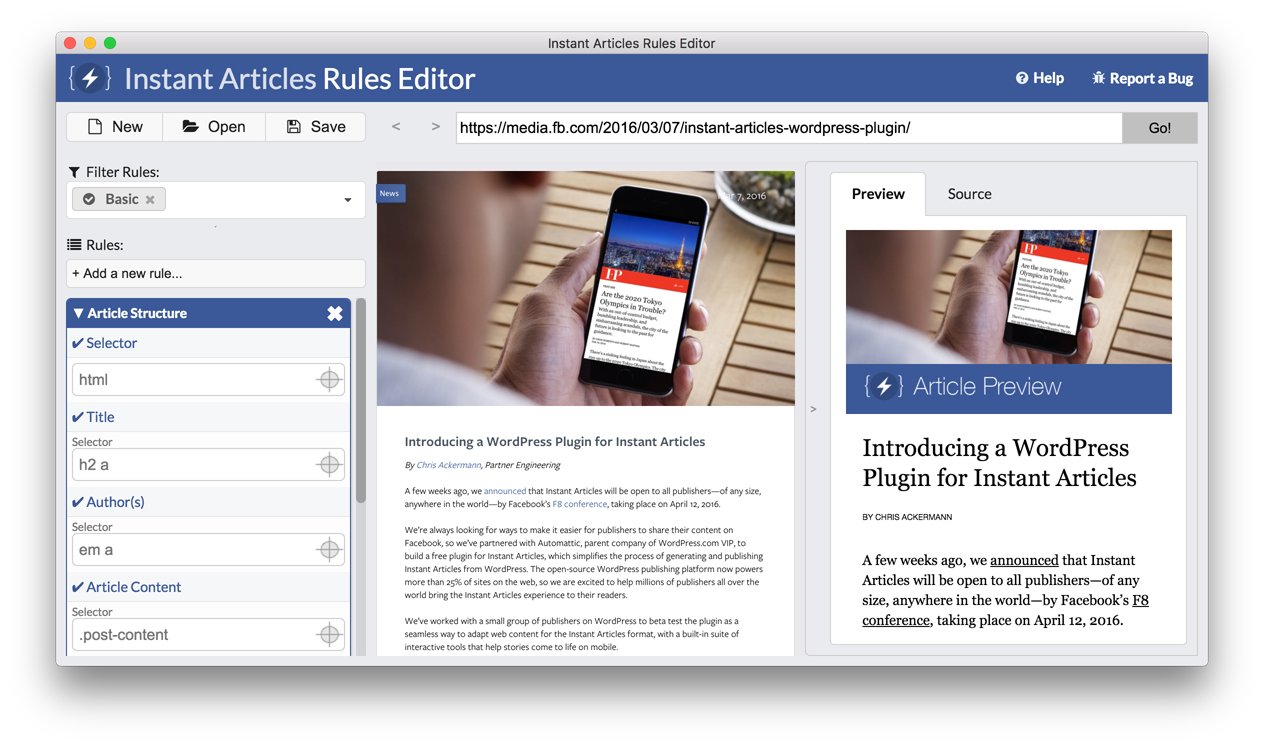
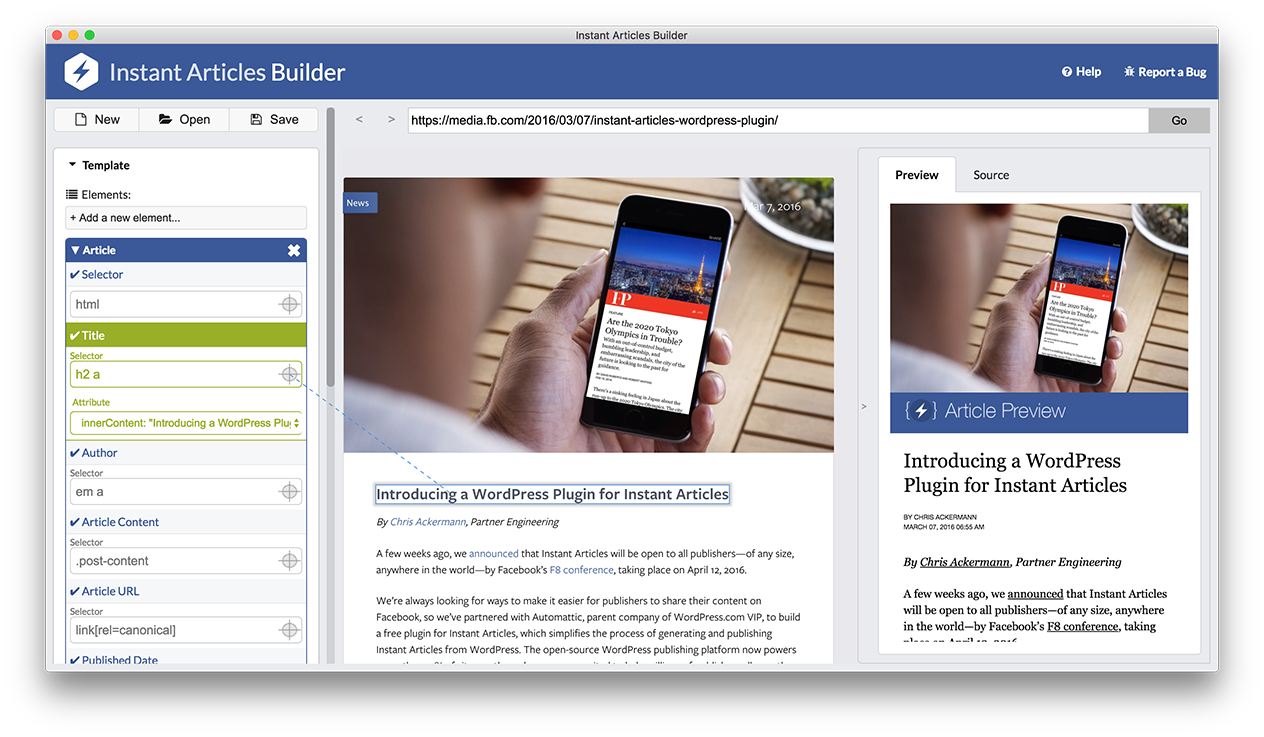
Deploy website
Deploy website version based on 8b2918e29c736e7292b97bfbfb230af4efd1ce28

diff --git a/docs/get-started.html b/docs/get-started.html
@@ -1,19 +1,19 @@
-<html lang="en"><head><meta charset="utf-8"/><meta http-equiv="X-UA-Compatible" content="IE=edge"/><title>Getting Started · Instant Articles Rules Editor</title><meta name="viewport" content="width=device-width"/><meta name="generator" content="Docusaurus"/><meta property="og:title" content="Getting Started · Instant Articles Rules Editor"/><meta property="og:type" content="website"/><meta property="og:url" content="https://facebook.github.io/instant-articles-builder/index.html"/><meta property="og:description" content="**Rules Editor** helps you to create rules that convert your articles to [Facebok Instant Articles](https://instantarticles.fb.com/)."/><link rel="shortcut icon" href="/instant-articles-builder/img/favicon.png"/><link rel="stylesheet" href="//cdnjs.cloudflare.com/ajax/libs/highlight.js/9.12.0/styles/default.min.css"/><script type="text/javascript" src="https://buttons.github.io/buttons.js"></script><link rel="stylesheet" href="/instant-articles-builder/css/main.css"/></head><body class="sideNavVisible doc"><div class="fixedHeaderContainer"><div class="headerWrapper wrapper"><header><a href="/instant-articles-builder/"><img class="logo" src="/instant-articles-builder/img/logo.png" alt="Instant Articles Rules Editor"/><h2 class="headerTitle">Instant Articles Rules Editor</h2></a><div class="navigationWrapper navigationSlider"><nav class="slidingNav"><ul class="nav-site nav-site-internal"><li class="siteNavGroupActive siteNavItemActive"><a href="/instant-articles-builder/docs/get-started.html" target="_self">Get Started</a></li></ul></nav></div></header></div></div><div class="navPusher"><div class="docMainWrapper wrapper"><div class="container docsNavContainer" id="docsNav"><nav class="toc"><div class="toggleNav"><section class="navWrapper wrapper"><div class="navBreadcrumb wrapper"><div class="navToggle" id="navToggler"><i></i></div><h2><i>›</i><span>Usage</span></h2></div><div class="navGroups"><div class="navGroup navGroupActive"><h3>Usage</h3><ul><li class="navListItem navListItemActive"><a class="navItem navItemActive" href="/instant-articles-builder/docs/get-started.html">Getting Started</a></li></ul></div></div></section></div><script>
+<html lang="en"><head><meta charset="utf-8"/><meta http-equiv="X-UA-Compatible" content="IE=edge"/><title>Getting Started · Instant Articles Builder</title><meta name="viewport" content="width=device-width"/><meta name="generator" content="Docusaurus"/><meta property="og:title" content="Getting Started · Instant Articles Builder"/><meta property="og:type" content="website"/><meta property="og:url" content="https://facebook.github.io/instant-articles-builder/index.html"/><meta property="og:description" content="With the Instant Articles Builder, you are able to specify the template for your [Instant Articles](https://instantarticles.fb.com/) simply by pointing and clicking on the visual elements of your mobile web articles. This template is used to map the content in your mobile web articles to Instant Articles, which will then be rendered to your readers within Facebook&#x27;s mobile apps."/><link rel="shortcut icon" href="/instant-articles-builder/img/favicon.png"/><link rel="stylesheet" href="//cdnjs.cloudflare.com/ajax/libs/highlight.js/9.12.0/styles/default.min.css"/><script type="text/javascript" src="https://buttons.github.io/buttons.js"></script><link rel="stylesheet" href="/instant-articles-builder/css/main.css"/></head><body class="sideNavVisible doc"><div class="fixedHeaderContainer"><div class="headerWrapper wrapper"><header><a href="/instant-articles-builder/"><img class="logo" src="/instant-articles-builder/img/logo.png" alt="Instant Articles Builder"/><h2 class="headerTitle">Instant Articles Builder</h2></a><div class="navigationWrapper navigationSlider"><nav class="slidingNav"><ul class="nav-site nav-site-internal"><li class="siteNavGroupActive siteNavItemActive"><a href="/instant-articles-builder/docs/get-started.html" target="_self">Get Started</a></li></ul></nav></div></header></div></div><div class="navPusher"><div class="docMainWrapper wrapper"><div class="container docsNavContainer" id="docsNav"><nav class="toc"><div class="toggleNav"><section class="navWrapper wrapper"><div class="navBreadcrumb wrapper"><div class="navToggle" id="navToggler"><i></i></div><h2><i>›</i><span>Usage</span></h2></div><div class="navGroups"><div class="navGroup navGroupActive"><h3>Usage</h3><ul><li class="navListItem navListItemActive"><a class="navItem navItemActive" href="/instant-articles-builder/docs/get-started.html">Getting Started</a></li></ul></div></div></section></div><script>
           var toggler = document.getElementById('navToggler');
           var nav = document.getElementById('docsNav');
           toggler.onclick = function() {
             nav.classList.toggle('docsSliderActive');
           };
-        </script></nav></div><div class="container mainContainer"><div class="wrapper"><div class="post"><header class="postHeader"><h1>Getting Started</h1></header><article><div><span><p><strong>Rules Editor</strong> helps you to create rules that convert your articles to <a href="https://instantarticles.fb.com/">Facebok Instant Articles</a>.</p>
+        </script></nav></div><div class="container mainContainer"><div class="wrapper"><div class="post"><header class="postHeader"><h1>Getting Started</h1></header><article><div><span><p>With the Instant Articles Builder, you are able to specify the template for your <a href="https://instantarticles.fb.com/">Instant Articles</a> simply by pointing and clicking on the visual elements of your mobile web articles. This template is used to map the content in your mobile web articles to Instant Articles, which will then be rendered to your readers within Facebook's mobile apps.</p>
 <p>For using this tool you'll need:</p>
 <ul>
 <li>A website containing articles.</li>
 <li>A Facebook Page enabled to use Instant Articles and connected to your website.</li>
 </ul>
-<p>The <abbr title="JavaScript Object Notation">JSON</abbr> file produced by this tool should be uploaded to a public URL and referenced by a meta tag inside the <code>&lt;head&gt;</code> tag of your articles:</p>
+<p>The file produced by this tool should be uploaded to a public URL and referenced by a meta tag inside the <code>&lt;head&gt;</code> tag of your articles:</p>
 <p><code>&lt;meta property=&quot;ia:rules_url&quot; content=&quot;path/to/your/rules-file.json&quot;/&gt;</code></p>
-<p><a href="https://developers.facebook.com/docs/instant-articles/rules-editor">Read the full documentation to learn more.</a></p>
-</span></div></article></div><div class="docs-prevnext"></div></div></div></div><footer class="nav-footer" id="footer"><section class="sitemap"><a href="/instant-articles-builder/" class="nav-home"><img src="/instant-articles-builder/img/logo.png" alt="Instant Articles Rules Editor" width="66" height="58"/></a><div><h5>Docs</h5><a href="/instant-articles-builder/docs/en/get-started.html">Getting Started</a><a href="https://developers.facebook.com/docs/instant-articles/rules-editor">Full Documentation</a></div><div><h5>Related</h5><a href="https://instantarticles.fb.com">Instant Articles</a></div><div><h5>More</h5><a href="https://github.com/facebook/facebook-instant-articles-rules-editor">GitHub Repository</a><a href="https://github.com/facebook/facebook-instant-articles-rules-editor/blob/master/LICENSE">License</a></div></section><a href="https://code.facebook.com/projects/" target="_blank" class="fbOpenSource"><img src="/instant-articles-builder/img/oss_logo.png" alt="Facebook Open Source" width="170" height="45"/></a><section class="copyright">Copyright © 2018 Facebook Inc.</section></footer></div><script>
+<p><a href="https://developers.facebook.com/docs/instant-articles/builder">Read the full documentation to learn more.</a></p>
+</span></div></article></div><div class="docs-prevnext"></div></div></div></div><footer class="nav-footer" id="footer"><section class="sitemap"><a href="/instant-articles-builder/" class="nav-home"><img src="/instant-articles-builder/img/logo.png" alt="Instant Articles Builder" width="66" height="58"/></a><div><h5>Docs</h5><a href="/instant-articles-builder/docs/en/get-started.html">Getting Started</a><a href="https://developers.facebook.com/docs/instant-articles/rules-editor">Full Documentation</a></div><div><h5>Related</h5><a href="https://instantarticles.fb.com">Instant Articles</a></div><div><h5>More</h5><a href="https://github.com/facebook/instant-articles-builder">GitHub Repository</a><a href="https://github.com/facebook/instant-articles-builder/blob/master/LICENSE">License</a></div></section><a href="https://code.facebook.com/projects/" target="_blank" class="fbOpenSource"><img src="/instant-articles-builder/img/oss_logo.png" alt="Facebook Open Source" width="170" height="45"/></a><section class="copyright">Copyright © 2018 Facebook Inc.</section></footer></div><script>
               !function(f,b,e,v,n,t,s)
               {if(f.fbq)return;n=f.fbq=function(){n.callMethod?
               n.callMethod.apply(n,arguments):n.queue.push(arguments)};

diff --git a/en/index.html b/en/index.html
@@ -1,10 +1,10 @@
-<html lang="en"><head><meta charset="utf-8"/><meta http-equiv="X-UA-Compatible" content="IE=edge"/><title>Instant Articles Rules Editor · Set-up Instant Articles without coding</title><meta name="viewport" content="width=device-width"/><meta name="generator" content="Docusaurus"/><meta property="og:title" content="Instant Articles Rules Editor · Set-up Instant Articles without coding"/><meta property="og:type" content="website"/><meta property="og:url" content="https://facebook.github.io/instant-articles-builder/index.html"/><meta property="og:description" content="Set-up Instant Articles without coding"/><link rel="shortcut icon" href="/instant-articles-builder/img/favicon.png"/><link rel="stylesheet" href="//cdnjs.cloudflare.com/ajax/libs/highlight.js/9.12.0/styles/default.min.css"/><script type="text/javascript" src="https://buttons.github.io/buttons.js"></script><link rel="stylesheet" href="/instant-articles-builder/css/main.css"/></head><body class=""><div class="fixedHeaderContainer"><div class="headerWrapper wrapper"><header><a href="/instant-articles-builder/"><img class="logo" src="/instant-articles-builder/img/logo.png" alt="Instant Articles Rules Editor"/><h2 class="headerTitle">Instant Articles Rules Editor</h2></a><div class="navigationWrapper navigationSlider"><nav class="slidingNav"><ul class="nav-site nav-site-internal"><li class=""><a href="/instant-articles-builder/docs/get-started.html" target="_self">Get Started</a></li></ul></nav></div></header></div></div><div class="navPusher"><div><div class="homeContainer"><div class="homeSplashFade"><div class="wrapper homeWrapper"><div class="inner"><img width="632" height="373" src="/instant-articles-builder/img/print-overall.png"/><h2 class="projectTitle">Rules Editor<small>Set-up <a target="_blank" href="http://instantarticles.fb.com">Facebook Instant Articles</a> without coding</small></h2><div class="section promoSection"><div class="promoRow"><div class="pluginRowBlock"><div class="pluginWrapper buttonWrapper"><a class="button" href="http://github.com/facebook/facebook-instant-articles-rules-editor/releases/latest" target="_self">Download</a></div><div class="pluginWrapper buttonWrapper"><a class="button" href="/instant-articles-builder/docs/en/get-started.html" target="_self">Get Started</a></div></div></div></div></div></div></div></div><div class="mainContainer"><div class="container paddingBottom paddingTop"><div class="wrapper"><div class="gridBlock"><div class="blockElement alignCenter fourByGridBlock imageAlignTop"><div class="blockImage"><img src="/instant-articles-builder/img/print-point-and-click.png"/></div><div class="blockContent"><h2><div><span><p>Point &amp; Click</p>
-</span></div></h2><div><span><p>Visually select elements from your site</p>
+<html lang="en"><head><meta charset="utf-8"/><meta http-equiv="X-UA-Compatible" content="IE=edge"/><title>Instant Articles Builder · Set-up Instant Articles without coding</title><meta name="viewport" content="width=device-width"/><meta name="generator" content="Docusaurus"/><meta property="og:title" content="Instant Articles Builder · Set-up Instant Articles without coding"/><meta property="og:type" content="website"/><meta property="og:url" content="https://facebook.github.io/instant-articles-builder/index.html"/><meta property="og:description" content="Set-up Instant Articles without coding"/><link rel="shortcut icon" href="/instant-articles-builder/img/favicon.png"/><link rel="stylesheet" href="//cdnjs.cloudflare.com/ajax/libs/highlight.js/9.12.0/styles/default.min.css"/><script type="text/javascript" src="https://buttons.github.io/buttons.js"></script><link rel="stylesheet" href="/instant-articles-builder/css/main.css"/></head><body class=""><div class="fixedHeaderContainer"><div class="headerWrapper wrapper"><header><a href="/instant-articles-builder/"><img class="logo" src="/instant-articles-builder/img/logo.png" alt="Instant Articles Builder"/><h2 class="headerTitle">Instant Articles Builder</h2></a><div class="navigationWrapper navigationSlider"><nav class="slidingNav"><ul class="nav-site nav-site-internal"><li class=""><a href="/instant-articles-builder/docs/get-started.html" target="_self">Get Started</a></li></ul></nav></div></header></div></div><div class="navPusher"><div><div class="homeContainer"><div class="homeSplashFade"><div class="wrapper homeWrapper"><div class="inner"><img width="632" height="373" src="/instant-articles-builder/img/print-overall.png"/><h2 class="projectTitle">Instant Articles Builder<small>Set-up <a target="_blank" href="http://instantarticles.fb.com">Facebook Instant Articles</a> without coding</small></h2><div class="section promoSection"><div class="promoRow"><div class="pluginRowBlock"><div class="pluginWrapper buttonWrapper"><a class="button" href="http://github.com/facebook/instant-articles-builder/releases/latest" target="_self">Download</a></div><div class="pluginWrapper buttonWrapper"><a class="button" href="/instant-articles-builder/docs/en/get-started.html" target="_self">Get Started</a></div></div></div></div></div></div></div></div><div class="mainContainer"><div class="container paddingBottom paddingTop"><div class="wrapper"><div class="gridBlock"><div class="blockElement alignCenter fourByGridBlock imageAlignTop"><div class="blockImage"><img src="/instant-articles-builder/img/print-point-and-click.png"/></div><div class="blockContent"><h2><div><span><p>Point &amp; Click</p>
+</span></div></h2><div><span><p>Visually select elements from your website</p>
 </span></div></div></div><div class="blockElement alignCenter fourByGridBlock imageAlignTop"><div class="blockImage"><img src="/instant-articles-builder/img/print-preview.png"/></div><div class="blockContent"><h2><div><span><p>Preview</p>
 </span></div></h2><div><span><p>Preview the result as you go</p>
 </span></div></div></div><div class="blockElement alignCenter fourByGridBlock imageAlignTop"><div class="blockImage"><img src="/instant-articles-builder/img/print-css.png"/></div><div class="blockContent"><h2><div><span><p>Refine</p>
-</span></div></h2><div><span><p>Refine your configuration with CSS3 selectors</p>
-</span></div></div></div></div></div></div></div></div><footer class="nav-footer" id="footer"><section class="sitemap"><a href="/instant-articles-builder/" class="nav-home"><img src="/instant-articles-builder/img/logo.png" alt="Instant Articles Rules Editor" width="66" height="58"/></a><div><h5>Docs</h5><a href="/instant-articles-builder/docs/en/get-started.html">Getting Started</a><a href="https://developers.facebook.com/docs/instant-articles/rules-editor">Full Documentation</a></div><div><h5>Related</h5><a href="https://instantarticles.fb.com">Instant Articles</a></div><div><h5>More</h5><a href="https://github.com/facebook/facebook-instant-articles-rules-editor">GitHub Repository</a><a href="https://github.com/facebook/facebook-instant-articles-rules-editor/blob/master/LICENSE">License</a></div></section><a href="https://code.facebook.com/projects/" target="_blank" class="fbOpenSource"><img src="/instant-articles-builder/img/oss_logo.png" alt="Facebook Open Source" width="170" height="45"/></a><section class="copyright">Copyright © 2018 Facebook Inc.</section></footer></div><script>
+</span></div></h2><div><span><p>Refine your configuration with CSS selectors</p>
+</span></div></div></div></div></div></div></div></div><footer class="nav-footer" id="footer"><section class="sitemap"><a href="/instant-articles-builder/" class="nav-home"><img src="/instant-articles-builder/img/logo.png" alt="Instant Articles Builder" width="66" height="58"/></a><div><h5>Docs</h5><a href="/instant-articles-builder/docs/en/get-started.html">Getting Started</a><a href="https://developers.facebook.com/docs/instant-articles/rules-editor">Full Documentation</a></div><div><h5>Related</h5><a href="https://instantarticles.fb.com">Instant Articles</a></div><div><h5>More</h5><a href="https://github.com/facebook/instant-articles-builder">GitHub Repository</a><a href="https://github.com/facebook/instant-articles-builder/blob/master/LICENSE">License</a></div></section><a href="https://code.facebook.com/projects/" target="_blank" class="fbOpenSource"><img src="/instant-articles-builder/img/oss_logo.png" alt="Facebook Open Source" width="170" height="45"/></a><section class="copyright">Copyright © 2018 Facebook Inc.</section></footer></div><script>
               !function(f,b,e,v,n,t,s)
               {if(f.fbq)return;n=f.fbq=function(){n.callMethod?
               n.callMethod.apply(n,arguments):n.queue.push(arguments)};

diff --git a/index.html b/index.html
@@ -1,10 +1,10 @@
-<html><head><meta charset="utf-8"/><meta http-equiv="X-UA-Compatible" content="IE=edge"/><title>Instant Articles Rules Editor · Set-up Instant Articles without coding</title><meta name="viewport" content="width=device-width"/><meta name="generator" content="Docusaurus"/><meta property="og:title" content="Instant Articles Rules Editor · Set-up Instant Articles without coding"/><meta property="og:type" content="website"/><meta property="og:url" content="https://facebook.github.io/instant-articles-builder/index.html"/><meta property="og:description" content="Set-up Instant Articles without coding"/><link rel="shortcut icon" href="/instant-articles-builder/img/favicon.png"/><link rel="stylesheet" href="//cdnjs.cloudflare.com/ajax/libs/highlight.js/9.12.0/styles/default.min.css"/><script type="text/javascript" src="https://buttons.github.io/buttons.js"></script><link rel="stylesheet" href="/instant-articles-builder/css/main.css"/></head><body class=""><div class="fixedHeaderContainer"><div class="headerWrapper wrapper"><header><a href="/instant-articles-builder/"><img class="logo" src="/instant-articles-builder/img/logo.png" alt="Instant Articles Rules Editor"/><h2 class="headerTitle">Instant Articles Rules Editor</h2></a><div class="navigationWrapper navigationSlider"><nav class="slidingNav"><ul class="nav-site nav-site-internal"><li class=""><a href="/instant-articles-builder/docs/get-started.html" target="_self">Get Started</a></li></ul></nav></div></header></div></div><div class="navPusher"><div><div class="homeContainer"><div class="homeSplashFade"><div class="wrapper homeWrapper"><div class="inner"><img width="632" height="373" src="/instant-articles-builder/img/print-overall.png"/><h2 class="projectTitle">Rules Editor<small>Set-up <a target="_blank" href="http://instantarticles.fb.com">Facebook Instant Articles</a> without coding</small></h2><div class="section promoSection"><div class="promoRow"><div class="pluginRowBlock"><div class="pluginWrapper buttonWrapper"><a class="button" href="http://github.com/facebook/facebook-instant-articles-rules-editor/releases/latest" target="_self">Download</a></div><div class="pluginWrapper buttonWrapper"><a class="button" href="/instant-articles-builder/docs/get-started.html" target="_self">Get Started</a></div></div></div></div></div></div></div></div><div class="mainContainer"><div class="container paddingBottom paddingTop"><div class="wrapper"><div class="gridBlock"><div class="blockElement alignCenter fourByGridBlock imageAlignTop"><div class="blockImage"><img src="/instant-articles-builder/img/print-point-and-click.png"/></div><div class="blockContent"><h2><div><span><p>Point &amp; Click</p>
-</span></div></h2><div><span><p>Visually select elements from your site</p>
+<html><head><meta charset="utf-8"/><meta http-equiv="X-UA-Compatible" content="IE=edge"/><title>Instant Articles Builder · Set-up Instant Articles without coding</title><meta name="viewport" content="width=device-width"/><meta name="generator" content="Docusaurus"/><meta property="og:title" content="Instant Articles Builder · Set-up Instant Articles without coding"/><meta property="og:type" content="website"/><meta property="og:url" content="https://facebook.github.io/instant-articles-builder/index.html"/><meta property="og:description" content="Set-up Instant Articles without coding"/><link rel="shortcut icon" href="/instant-articles-builder/img/favicon.png"/><link rel="stylesheet" href="//cdnjs.cloudflare.com/ajax/libs/highlight.js/9.12.0/styles/default.min.css"/><script type="text/javascript" src="https://buttons.github.io/buttons.js"></script><link rel="stylesheet" href="/instant-articles-builder/css/main.css"/></head><body class=""><div class="fixedHeaderContainer"><div class="headerWrapper wrapper"><header><a href="/instant-articles-builder/"><img class="logo" src="/instant-articles-builder/img/logo.png" alt="Instant Articles Builder"/><h2 class="headerTitle">Instant Articles Builder</h2></a><div class="navigationWrapper navigationSlider"><nav class="slidingNav"><ul class="nav-site nav-site-internal"><li class=""><a href="/instant-articles-builder/docs/get-started.html" target="_self">Get Started</a></li></ul></nav></div></header></div></div><div class="navPusher"><div><div class="homeContainer"><div class="homeSplashFade"><div class="wrapper homeWrapper"><div class="inner"><img width="632" height="373" src="/instant-articles-builder/img/print-overall.png"/><h2 class="projectTitle">Instant Articles Builder<small>Set-up <a target="_blank" href="http://instantarticles.fb.com">Facebook Instant Articles</a> without coding</small></h2><div class="section promoSection"><div class="promoRow"><div class="pluginRowBlock"><div class="pluginWrapper buttonWrapper"><a class="button" href="http://github.com/facebook/instant-articles-builder/releases/latest" target="_self">Download</a></div><div class="pluginWrapper buttonWrapper"><a class="button" href="/instant-articles-builder/docs/get-started.html" target="_self">Get Started</a></div></div></div></div></div></div></div></div><div class="mainContainer"><div class="container paddingBottom paddingTop"><div class="wrapper"><div class="gridBlock"><div class="blockElement alignCenter fourByGridBlock imageAlignTop"><div class="blockImage"><img src="/instant-articles-builder/img/print-point-and-click.png"/></div><div class="blockContent"><h2><div><span><p>Point &amp; Click</p>
+</span></div></h2><div><span><p>Visually select elements from your website</p>
 </span></div></div></div><div class="blockElement alignCenter fourByGridBlock imageAlignTop"><div class="blockImage"><img src="/instant-articles-builder/img/print-preview.png"/></div><div class="blockContent"><h2><div><span><p>Preview</p>
 </span></div></h2><div><span><p>Preview the result as you go</p>
 </span></div></div></div><div class="blockElement alignCenter fourByGridBlock imageAlignTop"><div class="blockImage"><img src="/instant-articles-builder/img/print-css.png"/></div><div class="blockContent"><h2><div><span><p>Refine</p>
-</span></div></h2><div><span><p>Refine your configuration with CSS3 selectors</p>
-</span></div></div></div></div></div></div></div></div><footer class="nav-footer" id="footer"><section class="sitemap"><a href="/instant-articles-builder/" class="nav-home"><img src="/instant-articles-builder/img/logo.png" alt="Instant Articles Rules Editor" width="66" height="58"/></a><div><h5>Docs</h5><a href="/instant-articles-builder/docs/get-started.html">Getting Started</a><a href="https://developers.facebook.com/docs/instant-articles/rules-editor">Full Documentation</a></div><div><h5>Related</h5><a href="https://instantarticles.fb.com">Instant Articles</a></div><div><h5>More</h5><a href="https://github.com/facebook/facebook-instant-articles-rules-editor">GitHub Repository</a><a href="https://github.com/facebook/facebook-instant-articles-rules-editor/blob/master/LICENSE">License</a></div></section><a href="https://code.facebook.com/projects/" target="_blank" class="fbOpenSource"><img src="/instant-articles-builder/img/oss_logo.png" alt="Facebook Open Source" width="170" height="45"/></a><section class="copyright">Copyright © 2018 Facebook Inc.</section></footer></div><script>
+</span></div></h2><div><span><p>Refine your configuration with CSS selectors</p>
+</span></div></div></div></div></div></div></div></div><footer class="nav-footer" id="footer"><section class="sitemap"><a href="/instant-articles-builder/" class="nav-home"><img src="/instant-articles-builder/img/logo.png" alt="Instant Articles Builder" width="66" height="58"/></a><div><h5>Docs</h5><a href="/instant-articles-builder/docs/get-started.html">Getting Started</a><a href="https://developers.facebook.com/docs/instant-articles/rules-editor">Full Documentation</a></div><div><h5>Related</h5><a href="https://instantarticles.fb.com">Instant Articles</a></div><div><h5>More</h5><a href="https://github.com/facebook/instant-articles-builder">GitHub Repository</a><a href="https://github.com/facebook/instant-articles-builder/blob/master/LICENSE">License</a></div></section><a href="https://code.facebook.com/projects/" target="_blank" class="fbOpenSource"><img src="/instant-articles-builder/img/oss_logo.png" alt="Facebook Open Source" width="170" height="45"/></a><section class="copyright">Copyright © 2018 Facebook Inc.</section></footer></div><script>
               !function(f,b,e,v,n,t,s)
               {if(f.fbq)return;n=f.fbq=function(){n.callMethod?
               n.callMethod.apply(n,arguments):n.queue.push(arguments)};
